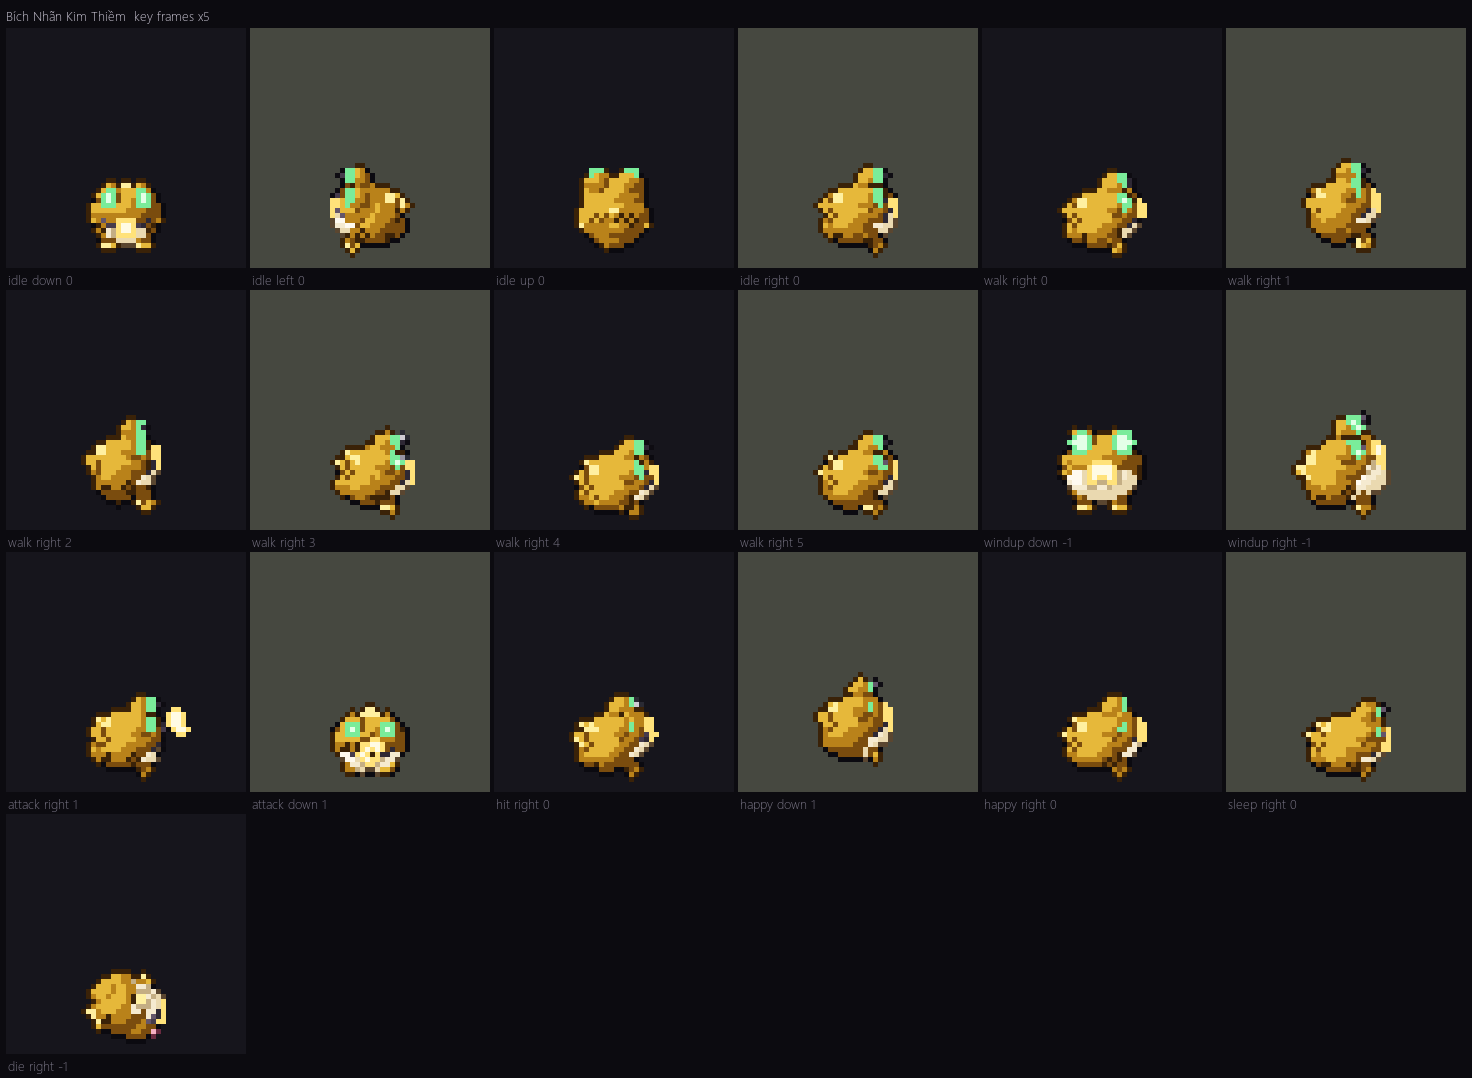
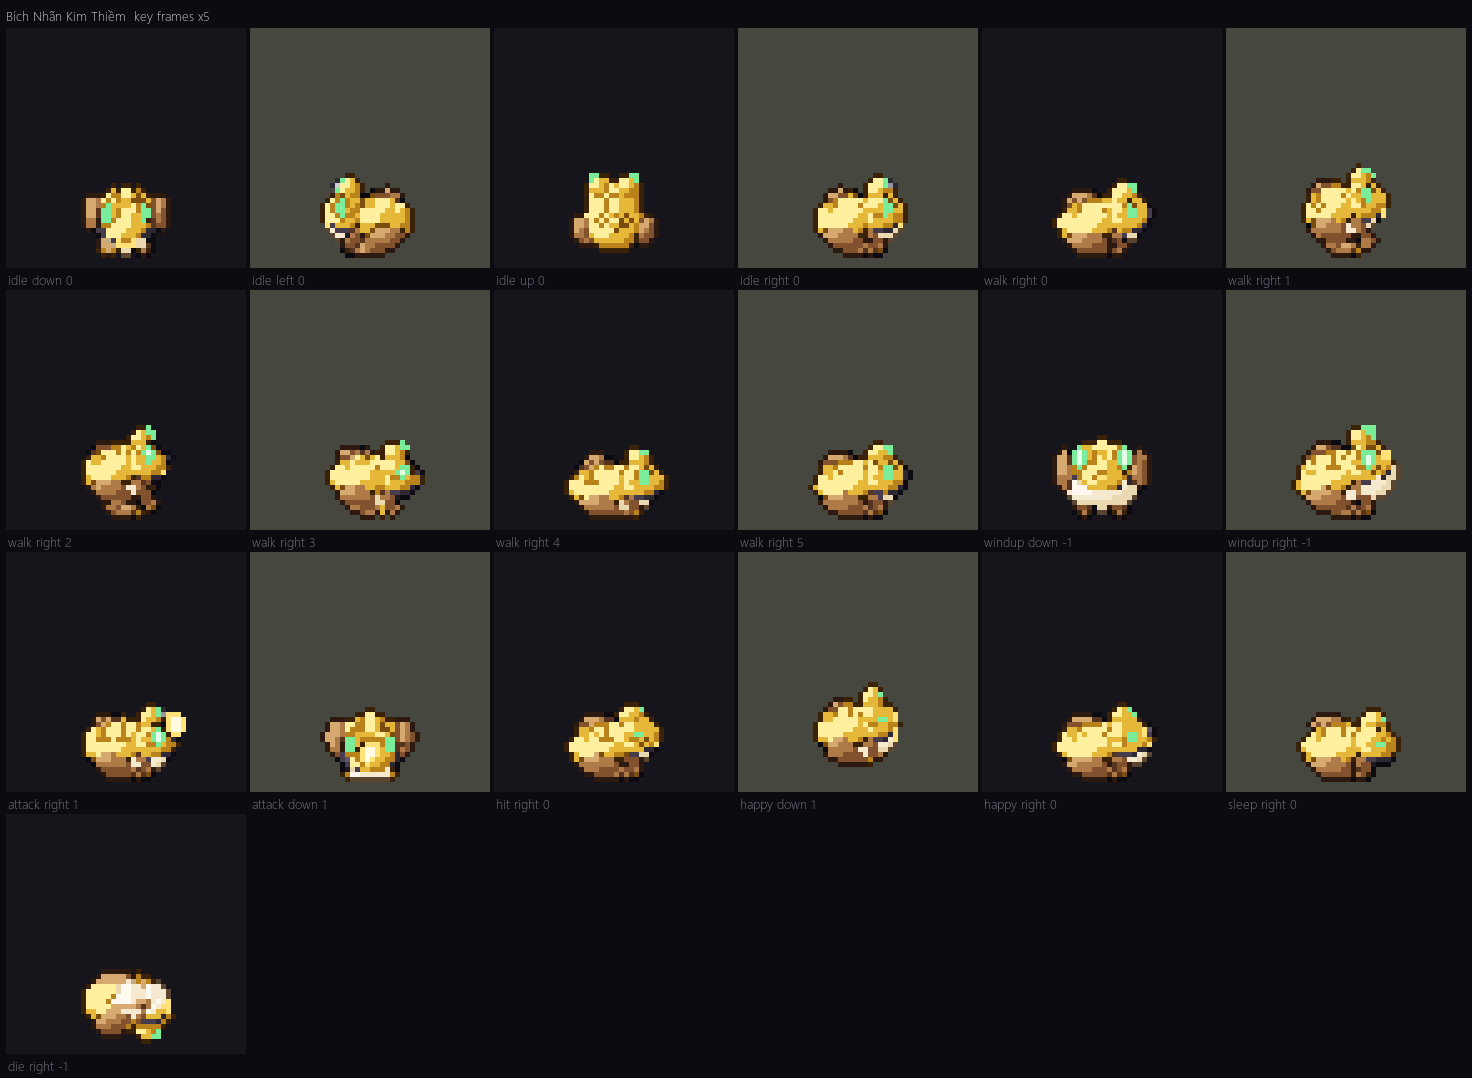
Toán tu tiên: Kim Thiềm dựng lại dáng nghiêng - thân thấp rộng, đầu nêm, mắt nhô, chân sau gập riêng

diff --git a/art/src/beasts_b/kim_thiem.py b/art/src/beasts_b/kim_thiem.py
@@ -1,27 +1,31 @@
-"""Bích Nhãn Kim Thiềm: the three-legged golden wealth toad with jade-green eyes. Runs inside
-Blender (see scene.py).
+"""Bích Nhãn Kim Thiềm: the golden wealth toad with jade-green eyes. Runs inside Blender
+(see scene.py).
 
-Squat and wide, warty gold skin with a hard metal glint, a cream throat and belly, two
-bulging eye domes on top with glowing jade irises and slit pupils, a wide smile, and a
-square-holed gold coin held in its lips (the toad of the stories). Three gold coins sit on
-its back along the spine. Two front legs (skinned between shoulder and hand bones, so the
-hands stay planted) and ONE big hind leg in the middle at the back: from behind and in
-profile the three legs read; from the front the body hides the hind leg. It hops heavily
-(big squash on landing), puffs up in windup and spits its coin in attack.
+Built for the side view first (lead review): a wide, low body clearly longer and broader
+than it is tall; a blunt wedge of a head in front, its two eye domes bulging ABOVE the head
+line with glowing jade irises and slit pupils turned out so they read in profile; a dark
+mouth line that runs from the blunt snout back under each eye; a pale throat sac that puffs
+in idle and a pale belly; a short front leg planted under the chest; and on each flank the
+folded hind leg as its own darker shape (a big thigh, the shin folded under it, a long foot
+forward on the ground). The hind legs are skinned tubes between a thigh bone on the body
+and a foot bone on the root, so in the hop they really unfold as the body springs up and
+fold again on landing. A square-holed gold coin sits in its lips (the toad of the stories)
+and three coins run down its back; warts are bright gold bumps on gold skin.
+
+The brief allowed three legs "if it can read, otherwise four"; one centred hind leg never
+read from the side, so it has four.
 """
 from __future__ import annotations
 
 import math
 
-from mathutils import Vector
-
-from common import (S, armature, att, ball, box, cone, finish, glow, hexc, lerp_pose, mat, merge,
-                    skin, tube, use_collection, eye_mats, set_ramp, set_root_offset)
+from common import (S, armature, att, ball, box, cone, eye_mats, finish, glow, hexc, lerp_pose, mat,
+                    merge, set_root_offset, skin, tube, use_collection)
 
 
 def coin(name, m, hole, centre, normal_rot, r=0.05, t=0.016):
-    """A round coin with a square hole: a short cylinder whose axis is turned by
-    normal_rot (degrees) from +z, and a dark square on each face."""
+    """A round coin with a square hole: a short cylinder turned by normal_rot (degrees)
+    from +z, and a dark square through it."""
     c = cone(name, r, r, t, centre, m, rot=normal_rot, seg=12)
     h = box(name + "_hole", (r * 0.42, r * 0.42, t * 1.3), centre, hole, rot=normal_rot)
     return [c, h]
@@ -29,9 +33,10 @@ def coin(name, m, hole, centre, normal_rot, r=0.05, t=0.016):
 
 def build():
     use_collection("COL_kim_thiem")
-    set_root_offset((0, -0.012, 0))       # the tilted body sits back: centre the footprint on the pivot
-    gold = mat("MAT_kt_skin", "#7a4c0e", "gold")
-    wart = mat("MAT_kt_wart", "#e6b83a", "gold")
+    set_root_offset((0, -0.005, 0))
+    gold = mat("MAT_kt_skin", "#e6b83a", "gold")
+    leg = mat("MAT_kt_leg", "#82522f", "wood")             # darker: the limbs separate from the flank
+    wart = mat("MAT_kt_wart", "#7a4c0e", "gold")
     belly = mat("MAT_kt_belly", "#ead9b0", "paper")
     mouth = mat("MAT_kt_mouth", "#2e2834", "hair")
     coinm = mat("MAT_kt_coin", "#e6b83a", "gold", metal=True)
@@ -46,135 +51,146 @@ def build():
 
     bones = [
         ("root", (0, 0, 0), (0, 0, 0.08), None),
-        ("body", (0, 0.03, 0.05), (0, 0.03, 0.20), "root"),
-        ("head", (0, -0.05, 0.15), (0, -0.07, 0.28), "body"),
-        ("jaw", (0, -0.04, 0.135), (0, -0.20, 0.135), "head"),
-        ("eyes", (0, -0.10, 0.29), (0, -0.10, 0.35), "head"),
-        ("throat", (0, -0.11, 0.08), (0, -0.11, 0.13), "head"),
-        ("coin", (0, -0.20, 0.15), (0, -0.28, 0.15), "head"),
-        ("shL", (0.10, -0.05, 0.14), (0.085, -0.07, 0.08), "body"),
-        ("shR", (-0.10, -0.05, 0.14), (-0.085, -0.07, 0.08), "body"),
-        ("handL", (0.08, -0.07, 0.05), (0.08, -0.07, 0.0), "root"),
-        ("handR", (-0.08, -0.07, 0.05), (-0.08, -0.07, 0.0), "root"),
-        ("hind", (0, 0.09, 0.06), (0, 0.04, 0.01), "root"),
+        ("body", (0, 0.04, 0.05), (0, 0.04, 0.18), "root"),
+        ("head", (0, -0.07, 0.12), (0, -0.09, 0.22), "body"),
+        ("jaw", (0, -0.06, 0.115), (0, -0.20, 0.115), "head"),
+        ("eyes", (0, -0.12, 0.23), (0, -0.12, 0.29), "head"),
+        ("throat", (0, -0.12, 0.07), (0, -0.12, 0.11), "head"),
+        ("coin", (0, -0.21, 0.13), (0, -0.28, 0.13), "head"),
     ]
+    for side, sx in (("L", 1), ("R", -1)):
+        bones += [(f"sh{side}", (sx * 0.10, -0.07, 0.13), (sx * 0.095, -0.085, 0.07), "body"),
+                  (f"hand{side}", (sx * 0.09, -0.085, 0.04), (sx * 0.09, -0.085, 0.0), "root"),
+                  (f"thigh{side}", (sx * 0.17, 0.17, 0.13), (sx * 0.18, 0.0, 0.075), "body"),
+                  (f"foot{side}", (sx * 0.12, 0.075, 0.03), (sx * 0.115, -0.06, 0.012), "root")]
     arm = armature("kim_thiem", bones)
 
-    # body: a wide squat dome; warts on the flanks, three coins down the spine
-    parts = [ball("kt_body", (0.19, 0.145, 0.125), (0, 0.02, 0.135), gold),
-             ball("kt_belly", (0.15, 0.09, 0.07), (0, -0.04, 0.085), belly),
-             ball("kt_thigh", (0.085, 0.08, 0.07), (0, 0.10, 0.085), gold)]
-    for k, (x, y, z) in enumerate(((0.13, 0.0, 0.20), (-0.13, 0.0, 0.20), (0.16, 0.08, 0.14), (-0.16, 0.08, 0.14),
-                                   (0.09, 0.12, 0.22), (-0.09, 0.12, 0.22), (0.17, -0.03, 0.12), (-0.17, -0.03, 0.12))):
-        parts.append(ball(f"kt_wart{k}", (0.022, 0.022, 0.018), (x, y, z), wart, seg=8, rings=5))
-    for k, (y, z, tilt) in enumerate(((-0.01, 0.255, -18), (0.07, 0.25, 8), (0.14, 0.215, 34))):
-        parts += coin(f"kt_bcoin{k}", coinm, hole, (0, y, z), (tilt, 0, 0), r=0.036, t=0.012)
+    # body: wide and low (0.40 across, 0.33 long, 0.20 tall), back sloping up to the head
+    parts = [ball("kt_body", (0.15, 0.17, 0.095), (0, 0.05, 0.13), gold, rot=(-6, 0, 0)),
+             # the pale underside: a light band along the whole bottom, throat to rump, in profile
+             ball("kt_belly", (0.148, 0.15, 0.05), (0, 0.0, 0.082), belly)]
+    for k, (x, y, z) in enumerate(((0.07, 0.02, 0.215), (-0.07, 0.02, 0.215), (0.06, 0.12, 0.205), (-0.06, 0.12, 0.205))):
+        parts.append(ball(f"kt_wart{k}", (0.018, 0.018, 0.014), (x, y, z), wart, seg=8, rings=5))
+    for k, (y, z, tilt) in enumerate(((-0.01, 0.222, -12), (0.06, 0.222, 4), (0.13, 0.20, 22))):
+        parts += coin(f"kt_bcoin{k}", coinm, hole, (0, y, z), (tilt, 0, 0), r=0.034, t=0.012)
     att(arm, "body", *parts)
-    # head: merged into the front of the body, eye domes on top, a wide smile
-    smile = []
-    for k in range(9):
-        x = -0.12 + 0.03 * k
-        smile.append((x, -0.05 - 0.125 * math.sqrt(max(0.0, 1 - (x / 0.15) ** 2)), 0.148 + 0.35 * x * x))
-    att(arm, "head", ball("kt_head", (0.16, 0.12, 0.095), (0, -0.07, 0.19), gold),
-        ball("kt_domeL", (0.065, 0.06, 0.065), (0.085, -0.085, 0.275), gold, seg=12, rings=8),
-        ball("kt_domeR", (0.065, 0.06, 0.065), (-0.085, -0.085, 0.275), gold, seg=12, rings=8),
-        ball("kt_blushl", (0.03, 0.01, 0.016), (0.11, -0.155, 0.185), blush, seg=6, rings=4),
-        ball("kt_blushr", (0.03, 0.01, 0.016), (-0.11, -0.155, 0.185), blush, seg=6, rings=4),
-        ball("kt_nostl", (0.01,) * 3, (0.025, -0.188, 0.205), mouth, seg=6, rings=4),
-        ball("kt_nostr", (0.01,) * 3, (-0.025, -0.188, 0.205), mouth, seg=6, rings=4),
-        tube("kt_mouth", smile, [0.013] * len(smile), mouth, seg=6))
-    att(arm, "jaw", ball("kt_jaw", (0.15, 0.10, 0.04), (0, -0.09, 0.125), belly))
-    att(arm, "throat", ball("kt_sac", (0.09, 0.06, 0.05), (0, -0.115, 0.095), belly, seg=12, rings=8))
+    # head: a blunt wedge in front, eye domes bulging above its line, mouth line running back
+    mline = [(0.0, -0.222, 0.122)]
+    for k in range(1, 7):
+        t = k / 6
+        x = 0.135 * math.sin(t * math.pi / 2)
+        mline.append((x, -0.222 + 0.17 * (1 - math.cos(t * math.pi / 2)), 0.122 + 0.02 * t))
+    mouthR = [(-x, y, z) for x, y, z in mline]
+    att(arm, "head", ball("kt_head", (0.13, 0.11, 0.075), (0, -0.12, 0.155), gold, rot=(6, 0, 0)),
+        ball("kt_snout", (0.09, 0.05, 0.045), (0, -0.19, 0.145), gold, seg=12, rings=8),
+        ball("kt_domeL", (0.055, 0.055, 0.058), (0.075, -0.115, 0.24), gold, seg=12, rings=8),
+        ball("kt_domeR", (0.055, 0.055, 0.058), (-0.075, -0.115, 0.24), gold, seg=12, rings=8),
+        ball("kt_blushl", (0.026, 0.01, 0.014), (0.105, -0.185, 0.16), blush, seg=6, rings=4),
+        ball("kt_blushr", (0.026, 0.01, 0.014), (-0.105, -0.185, 0.16), blush, seg=6, rings=4),
+        ball("kt_nostl", (0.01,) * 3, (0.022, -0.235, 0.165), mouth, seg=6, rings=4),
+        ball("kt_nostr", (0.01,) * 3, (-0.022, -0.235, 0.165), mouth, seg=6, rings=4),
+        ball("kt_mouth", (0.137, 0.118, 0.011), (0, -0.12, 0.128), mouth, seg=24, rings=4))
+    att(arm, "jaw", ball("kt_jaw", (0.12, 0.09, 0.028), (0, -0.13, 0.105), belly))
+    att(arm, "throat", ball("kt_sac", (0.09, 0.06, 0.045), (0, -0.13, 0.08), belly, seg=12, rings=8))
     eyes = []
     for s in (1, -1):
-        eyes += [ball(f"kt_iris{s}", (0.046, 0.026, 0.044), (s * 0.088, -0.13, 0.29), iris, rot=(0, 0, -s * 20), seg=10, rings=6),
-                 box(f"kt_pupil{s}", (0.045, 0.012, 0.014), (s * 0.09, -0.155, 0.288), pupil, rot=(0, 0, -s * 20)),
-                 ball(f"kt_shine{s}", (0.013,) * 3, (s * 0.075, -0.153, 0.31), shine, seg=6, rings=4)]
+        # iris on the dome, turned 35 degrees out so the profile sees it; horizontal slit pupil
+        eyes += [ball(f"kt_iris{s}", (0.042, 0.03, 0.04), (s * 0.093, -0.142, 0.25), iris, rot=(0, 0, -s * 35), seg=10, rings=6),
+                 box(f"kt_pupil{s}", (0.04, 0.012, 0.012), (s * 0.099, -0.162, 0.248), pupil, rot=(0, 0, -s * 35)),
+                 ball(f"kt_shine{s}", (0.012,) * 3, (s * 0.083, -0.168, 0.265), shine, seg=6, rings=4)]
     att(arm, "eyes", *eyes)
-    att(arm, "coin", *coin("kt_coin", mcoin, hole, (0, -0.205, 0.155), (90, 0, 0), r=0.058, t=0.016))
+    att(arm, "coin", *coin("kt_coin", mcoin, hole, (0, -0.215, 0.13), (90, 0, 0), r=0.05, t=0.016))
     for side, sx in (("L", 1), ("R", -1)):
-        x = sx * 0.085
-        leg = tube(f"kt_arm{side}", [(sx * 0.11, -0.04, 0.15), (sx * 0.11, -0.07, 0.08), (x, -0.075, 0.035)],
-                   [0.04, 0.034, 0.03], gold, seg=10)
-        skin(leg, arm, [f"sh{side}", f"hand{side}"], power=3.0)
-        att(arm, f"hand{side}", ball(f"kt_hand{side}", (0.045, 0.04, 0.018), (x, -0.07, 0.018), wart, seg=10, rings=6),
-            *[ball(f"kt_toe{side}{k}", (0.014, 0.022, 0.012), (x + (k - 1) * 0.028, -0.09, 0.012), wart, seg=6, rings=4)
+        # short front leg planted under the chest (skinned: the hand stays on the ground)
+        fl = tube(f"kt_arm{side}", [(sx * 0.11, -0.06, 0.13), (sx * 0.105, -0.085, 0.075), (sx * 0.09, -0.09, 0.03)],
+                  [0.032, 0.028, 0.024], leg, seg=10)
+        skin(fl, arm, [f"sh{side}", f"hand{side}"], power=3.0)
+        att(arm, f"hand{side}", ball(f"kt_hand{side}", (0.04, 0.035, 0.015), (sx * 0.09, -0.09, 0.015), leg, seg=10, rings=6),
+            *[ball(f"kt_toe{side}{k}", (0.012, 0.02, 0.01), (sx * 0.09 + (k - 1) * 0.024, -0.108, 0.01), wart, seg=6, rings=4)
               for k in range(3)])
-    att(arm, "hind", ball("kt_foot", (0.055, 0.06, 0.02), (0, 0.05, 0.02), wart, seg=10, rings=6),
-        ball("kt_shin", (0.05, 0.06, 0.04), (0, 0.08, 0.05), gold, seg=10, rings=6))
+        # the folded hind leg on the flank, its own dark shape: a big thigh outside the body,
+        # the shin folded forward under it and back to the heel, a long foot forward on the ground
+        att(arm, f"thigh{side}", ball(f"kt_thigh{side}", (0.05, 0.095, 0.058), (sx * 0.168, 0.075, 0.12), leg,
+                                     rot=(18, 0, 0), seg=12, rings=8))
+        hl = tube(f"kt_shin{side}", [(sx * 0.17, 0.0, 0.088), (sx * 0.155, 0.05, 0.052), (sx * 0.125, 0.085, 0.026)],
+                  [0.032, 0.026, 0.02], leg, seg=10)
+        skin(hl, arm, [f"thigh{side}", f"foot{side}"], power=3.0)
+        att(arm, f"foot{side}", ball(f"kt_foot{side}", (0.026, 0.075, 0.013), (sx * 0.115, 0.015, 0.013), leg, seg=10, rings=6),
+            *[ball(f"kt_htoe{side}{k}", (0.011, 0.02, 0.009), (sx * 0.115 + (k - 1) * 0.02, -0.06, 0.01), wart, seg=6, rings=4)
+              for k in range(3)])
 
     # ------------------------------------------------------------------ poses
     def body(z=0.0, pitch=0.0, sq=1.0, head=0.0, puff=1.0):
         w = puff / math.sqrt(sq)
-        # rest: nose up 12 degrees, propped on straight front legs (a sitting toad's wedge)
-        return {"body": {"l": (0, 0, z + 0.012), "r": (pitch - 12, 0, 0), "s": (w, sq * puff, w)},
-                "head": {"r": (head - pitch * 0.5 + 4, 0, 0)}}
+        return {"body": {"l": (0, 0, z), "r": (pitch - 5, 0, 0), "s": (w, sq * puff, w)},
+                "head": {"r": (head - pitch * 0.5 + 3, 0, 0)}}
 
-    def limbs(hy=0.0, hz=0.0, by=0.0, bz=0.0):
-        return {"handL": {"l": (0, hy, hz)}, "handR": {"l": (0, hy, hz)}, "hind": {"l": (0, by, bz)}}
+    def limbs(hy=0.0, hz=0.0, fy=0.0, fz=0.0):
+        return {"handL": {"l": (0, hy, hz)}, "handR": {"l": (0, hy, hz)},
+                "footL": {"l": (0, fy, fz)}, "footR": {"l": (0, fy, fz)}}
 
     idle = []
     for i in range(4):
         p = body(0.003 * S(i, 4), 0, 1.0 + 0.02 * S(i, 4), 2 * S(i, 4, 1))
-        p["throat"] = {"s": 1.0 + 0.25 * max(0.0, S(i, 4, 1.2))}
+        p["throat"] = {"s": (1.0 + 0.3 * max(0.0, S(i, 4, 1.2)),) * 3}
         p["eyes"] = {"s": (1, 0.2 if i == 3 else 1.0, 1)}
         p["coin"] = {"r": (0, 4 * S(i, 4), 0)}
         idle.append(p)
-    W = [  # z, pitch, squash, hands (y, z), hind (y, z): the hind foot only skims
-        (-0.015, 0, 0.90, (0.015, 0.0), (-0.004, 0.0)),     # gather
-        (0.020, -8, 1.10, (-0.010, 0.02), (0.004, 0.0)),    # push (nose up)
-        (0.042, -4, 1.12, (-0.020, 0.025), (0.006, 0.008)), # flight
-        (0.012, 10, 0.96, (-0.018, 0.0), (-0.008, 0.012)),  # front lands
-        (-0.028, 2, 0.84, (-0.006, 0.0), (-0.010, 0.0)),    # heavy landing: splat
-        (-0.012, 0, 0.94, (0.005, 0.0), (-0.007, 0.0)),     # recover
+    # the hop: gather, the hind legs unfold as it springs, a short flight, the front lands,
+    # the heavy splat, recover. Planted feet drift back on the ground (the game moves it).
+    W = [  # z, pitch, squash, hands (y, z), hind feet (y, z)
+        (-0.012, 0, 0.92, (0.012, 0.0), (0.004, 0.0)),      # gather
+        (0.045, -6, 1.12, (-0.012, 0.03), (0.006, 0.0)),    # push: body springs, hind legs stretch out
+        (0.060, -4, 1.10, (-0.022, 0.03), (0.0, 0.006)),    # flight: feet trail, just off the ground
+        (0.020, 10, 0.98, (-0.020, 0.0), (-0.006, 0.01)),   # front lands, hind legs folding in
+        (-0.022, 2, 0.88, (-0.008, 0.0), (-0.006, 0.0)),    # heavy landing: splat
+        (-0.010, 0, 0.95, (0.004, 0.0), (-0.003, 0.0)),     # recover
     ]
     walk = []
     for z, pt, sq, hd, hn in W:
         p = body(z, pt, sq)
         p.update(limbs(hd[0], hd[1], hn[0], hn[1]))
-        p["throat"] = {"s": 1.0 + 0.15 * (1 - sq) / 0.2}
+        p["throat"] = {"s": 1.0 + 0.15 * max(0.0, (1 - sq)) / 0.14}
         p["jaw"] = {"r": (4 if sq < 0.9 else 0, 0, 0)}
         walk.append(p)
     # windup: puffs itself up, rears back on its front legs, throat sac swelling
-    puff = body(0.02, -14, 1.0, -4, 1.14)
+    puff = body(0.025, -12, 1.0, -4, 1.12)
     puff["throat"] = {"s": 1.7}
     puff["eyes"] = {"s": 1.1}
     puff["coin"] = {"s": 1.15}
-    puff.update(limbs(0.0, 0.0, 0.0, 0.0))
-    windup = [lerp_pose(idle[0], puff, 0.5), puff, merge(puff, {"throat": {"s": 1.85}, "body": {"s": (1.18, 1.16, 1.18)}}),
-              merge(puff, {"throat": {"s": 1.75}})]
+    windup = [lerp_pose(idle[0], puff, 0.5), puff, merge(puff, {"throat": {"s": 1.85}}), merge(puff, {"throat": {"s": 1.75}})]
     # attack: spits the coin straight ahead (hit = frame 1), then a new one appears
     spit0 = body(0.0, 2, 0.97, -2)
-    spit0["jaw"] = {"r": (26, 0, 0)}
-    spit0["coin"] = {"l": (0, -0.05, 0.01), "s": 1.1}
+    spit0["jaw"] = {"r": (18, 0, 0)}
+    spit0["coin"] = {"l": (0, -0.04, 0.02), "s": 1.1}
     spit1 = body(-0.005, 4, 0.95, 4)
-    spit1["jaw"] = {"r": (32, 0, 0)}
-    spit1["coin"] = {"l": (0, -0.06, 0.08), "s": 1.25, "r": (0, 0, 40)}
+    spit1["jaw"] = {"r": (20, 0, 0)}
+    spit1["coin"] = {"l": (0, -0.03, 0.14), "s": 1.2, "r": (0, 0, 40)}
     spit1["throat"] = {"s": 0.8}
     spit2 = body(0.0, -4, 1.04, -2)
-    spit2["jaw"] = {"r": (18, 0, 0)}
+    spit2["jaw"] = {"r": (12, 0, 0)}
     spit2["coin"] = {"s": 0.01}
     spit3 = body(0.0, 0, 1.0, 0)
     spit3["coin"] = {"s": 0.7}
     attack = [spit0, spit1, spit2, spit3]
-    hit = [merge(body(-0.01, -4, 0.89, -8), {"eyes": {"s": (1, 0.2, 1)}, "coin": {"r": (0, 20, 0)}}),
-           merge(body(0, -4, 0.95, -3), {"coin": {"r": (0, -8, 0)}})]
-    # die: shocked, wobbles, keels over and flops onto its back, cream belly up, legs in the air
+    hit = [merge(body(-0.004, -3, 0.94, -8), {"eyes": {"s": (1, 0.2, 1)}, "coin": {"r": (0, 20, 0)}}),
+           merge(body(0, -3, 0.96, -3), {"coin": {"r": (0, -8, 0)}})]
+    # die: shocked, wobbles, keels over and flops onto its back, pale belly up, legs in the air
     flip = body(0, 0, 1.0, 0)
     flip.update(limbs(0.0, 0.03, 0.0, 0.04))
-    flip["root"] = {"r": (0, 178, 0), "l": (0, 0, 0.27)}
+    flip["root"] = {"r": (0, 178, 0), "l": (0, 0, 0.25)}
     flip["eyes"] = {"s": (1, 0.12, 1)}
     flip["jaw"] = {"r": (14, 0, 0)}
     tip = body(0, 0, 1.0, 0)
-    tip["root"] = {"r": (0, 100, 0), "l": (-0.12, 0, 0.19)}
+    tip["root"] = {"r": (0, 95, 0), "l": (-0.10, 0, 0.19)}
     tip["eyes"] = {"s": (1, 0.3, 1)}
-    die = [merge(body(0.01, -8, 1.08, -6, 1.06), {"eyes": {"s": 1.25}, "throat": {"s": 1.4}}),
-           merge(body(0, 0, 0.96), {"root": {"r": (0, 18, 0)}, "eyes": {"s": (1, 0.5, 1)}}),
+    die = [merge(body(0.01, -8, 1.06, -6, 1.04), {"eyes": {"s": 1.25}, "throat": {"s": 1.4}}),
+           merge(body(0, 0, 0.96), {"root": {"r": (0, 8, 0)}, "eyes": {"s": (1, 0.5, 1)}}),
            tip, flip,
-           merge(flip, {"handL": {"l": (0, 0.0, 0.05)}, "hind": {"l": (0, 0, 0.02)}}),
+           merge(flip, {"handL": {"l": (0, 0.0, 0.05)}, "footL": {"l": (0, 0, 0.03)}}),
            merge(flip, {"handR": {"l": (0, 0.0, 0.05)}})]
     happy = []
-    for i, (z, sq) in enumerate(((0.0, 0.86), (0.07, 1.12), (0.09, 1.06), (0.02, 0.94))):
+    for i, (z, sq) in enumerate(((0.0, 0.88), (0.07, 1.12), (0.09, 1.06), (0.02, 0.95))):
         p = body(0, 0, sq, -6)
         p["root"] = {"r": (0, 0, 90 * i), "l": (0, 0, z)}
         p.update(limbs(0, z * 0.5, 0, z * 0.4))
@@ -185,7 +201,7 @@ def build():
     sleep = []
     for i in range(4):
         b = S(i, 4)
-        p = body(-0.02, 4, 0.86 + 0.02 * b, 10)
+        p = body(-0.015, 3, 0.9 + 0.02 * b, 10)
         p["throat"] = {"s": 1.0 + 0.3 * max(0.0, b)}
         p["eyes"] = {"s": (1, 0.12, 1)}
         sleep.append(p)

diff --git a/art/src/beasts_b/scene.py b/art/src/beasts_b/scene.py
@@ -98,8 +98,11 @@ def main():
         for o in [o for o in bpy.data.objects if any(h in o.name for h in hide)]:
             bpy.data.objects.remove(o)
     clips = clips_from_actions(only)
+    big = {}
+    if only and os.environ.get("BEASTS_B_BIG"):     # look-round debugging: 2x resolution WIP
+        big = {"frame": (96, 96), "pivot": (48, 84), "ppm": 76.0}
     kit.render_animated(arm, a.id, clips, WIP if only else OUT, name_vi=name_vi, kind="beast",
-                        holdout=hold or None)
+                        holdout=hold or None, **big)
 
 
 main()
